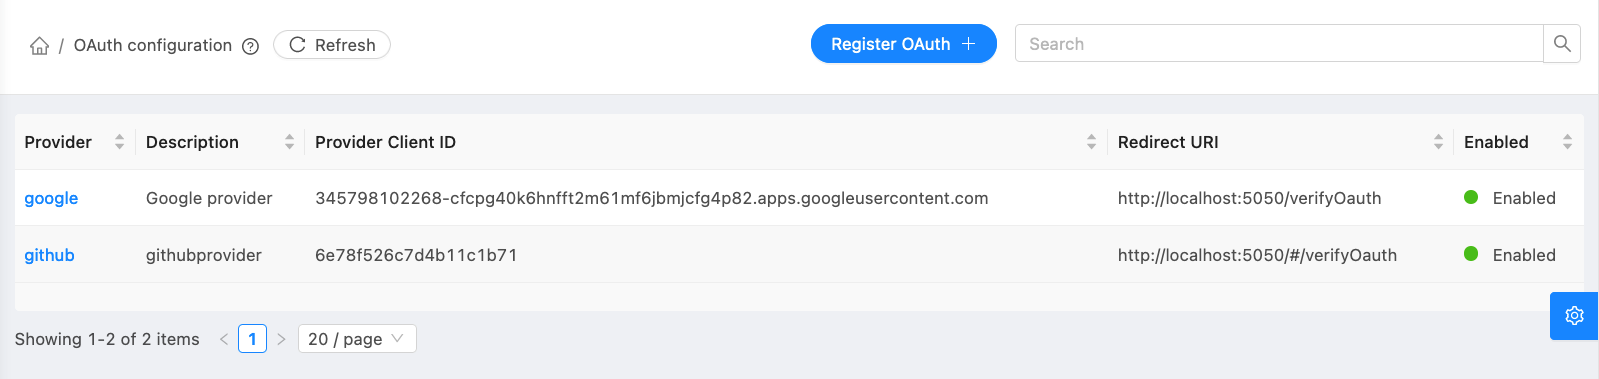
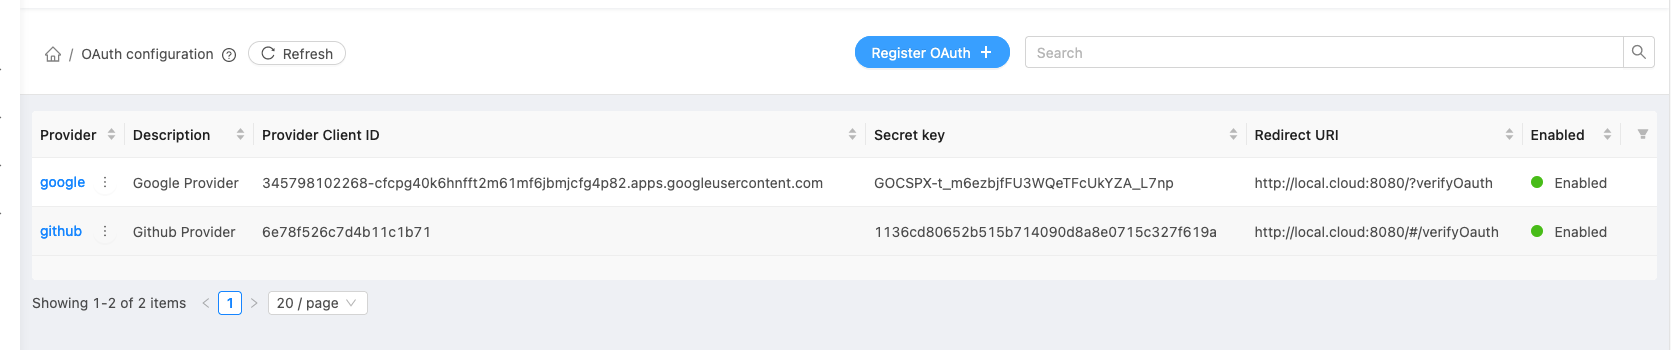
Updated the doc with new images and content

diff --git a/source/adminguide/accounts.rst b/source/adminguide/accounts.rst
@@ -676,7 +676,33 @@ For Github, please follow the instructions mentioned here `"Setting up OAuth 2.0
 In any OAuth 2.0 configuration admin has to use the redirect URI "http://<management server IP>:<port>/#/verifyOauth"
 
 .. Note:: [Google OAuth 2.0 redirect URI] :
-          Google OAuth 2.0 configuration wont accept '#' in the URI, please use "http://<management server IP>:<port>/verifyOauth"
+          Google OAuth 2.0 configuration wont accept '#' in the URI, please use "http://<management server Domain>:<port>/?verifyOauth"
+          Google does not accept direct IP address in the redirect URI, it must be a domain. As a workaround one can add the management
+          server IP to host table in the local system and assign a domain, something like "management.cloud". In that redirect URI looks like
+          "http://management.cloud:8080/?verifyOauth"
+
+.. image:: /_static/images/oauth-provider-registration.png
+   :width: 400px
+   :align: center
+   :alt: OAuth provider registration
+
+Following are the details needs to be provided to register the OAuth provider, this is to call the API "registerOauthProvider"
+
+   -  **Provider**: Name of the provider from the list of OAuth providers supported in CloudStack
+
+   -  **Description**: A short description for the provider
+
+   -  **Provider Client ID**: Client ID pre-registered in the specific OAuth provider
+
+   -  **Redirect URI**: Redirect URI pre-registered in the specific OAuth provider
+
+   -  **Secret Key**: Secret Key pre-registered in the specific OAuth provider
+
+Cloudmonkey API call looks like
+
+   -  register oauthprovider provider=google description="Google Provider"
+      clientid="http://345798102268-3kp6qd6c16v6b9av2tmvqagj40na30l4.apps.googleusercontent.com"
+      redirecturi="http://local.cloud:8080/?verifyOauth" secretkey="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"
 
 Email address is the key to identify the user in CloudStack. In case if user belongs to any specific domain, domain name
 has to be provided in the login form and then click on OAuth login.
